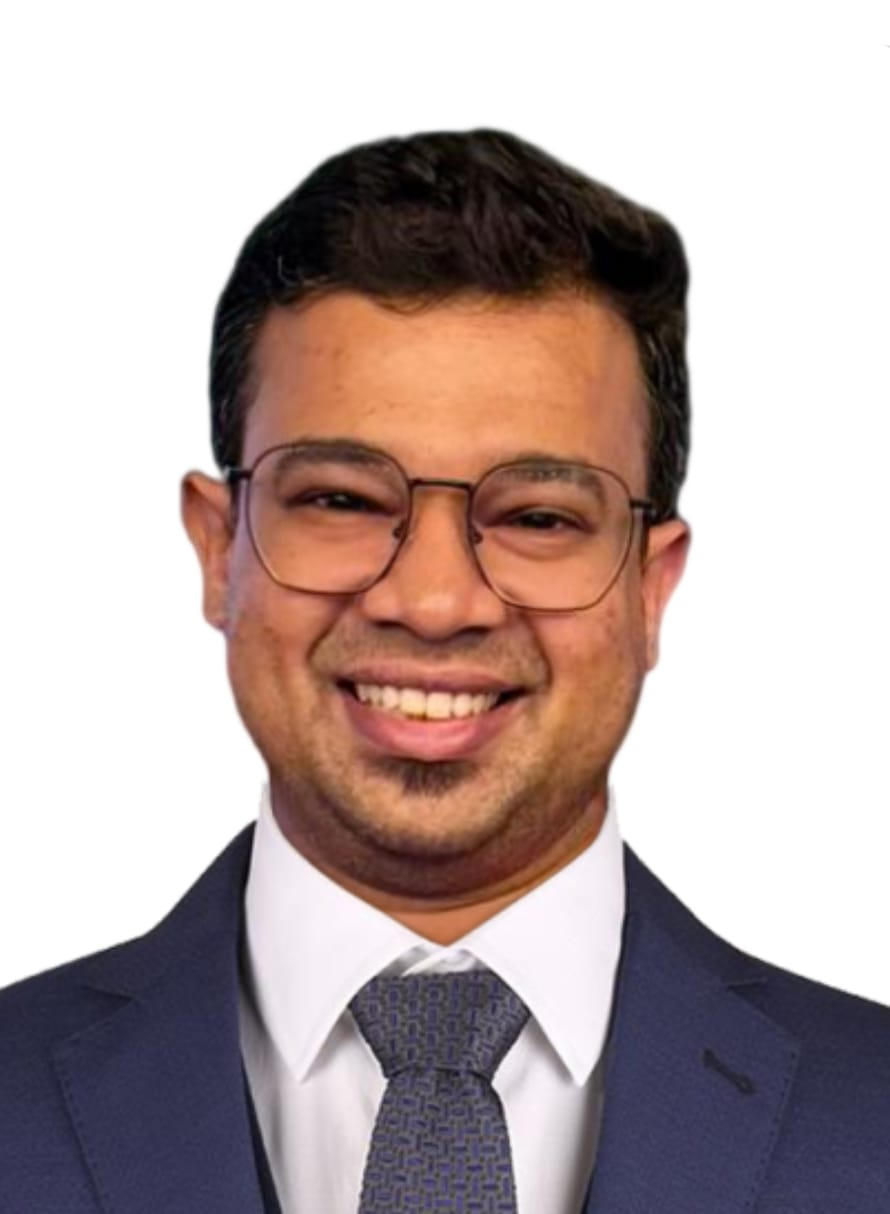
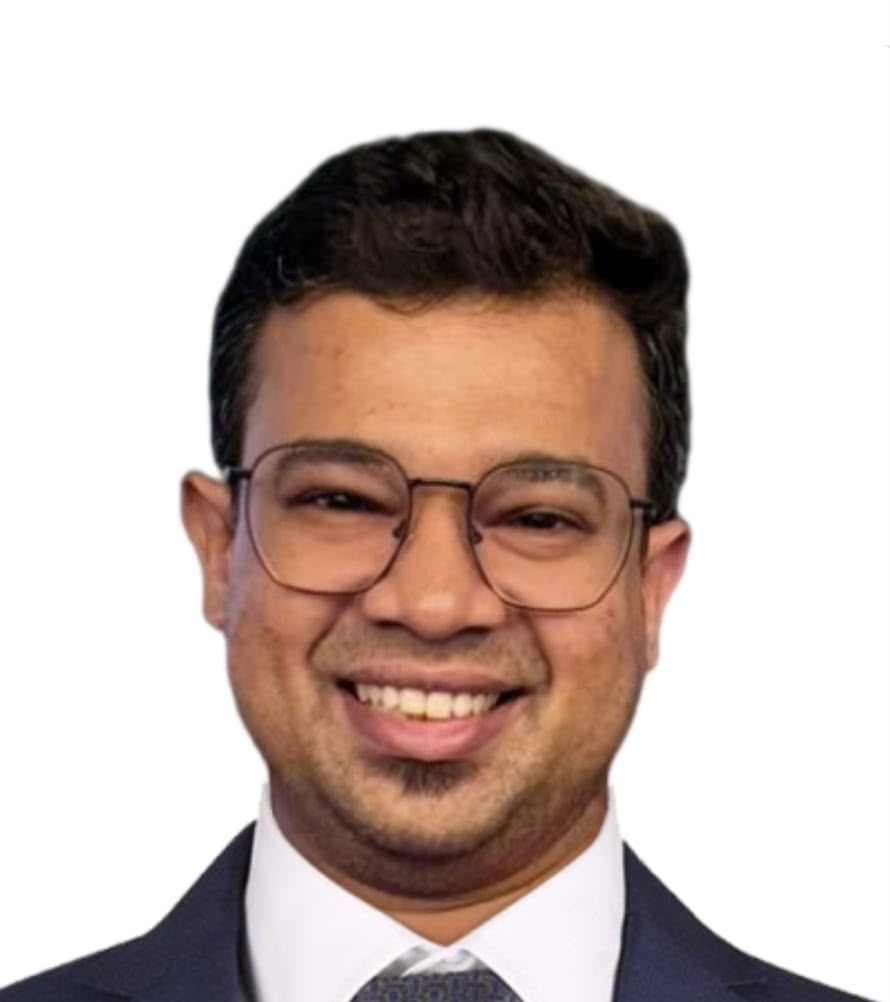
photo

diff --git a/index.html b/index.html
@@ -180,7 +180,7 @@ h2.title{ font-size:clamp(26px,3.4vw,34px); letter-spacing:-.01em; }
 .bracket .c2::before{ top:0; right:0; border-left:none; border-bottom:none; }
 .bracket .c2::after{ bottom:0; left:0; border-right:none; border-top:none; }
 .portrait-img{
-  width:100%; aspect-ratio:1/1; object-fit:cover; border-radius:50%;
+  width:100%; aspect-ratio:1/1; object-fit:cover; border-radius:60%;
   filter:grayscale(.15);
 }
 .portrait-cap{
@@ -370,7 +370,7 @@ footer{ padding:56px 0 70px; }
   </div>
   <div class="portrait-wrap">
     <div class="bracket"><span class="c2"></span>
-      <img class="portrait-img" src="assets/pic_sb_1_circ.png" alt="Portrait of Dr. Soumen Basu">
+      <img class="portrait-img" src="assets/photo.jpg" alt="Portrait of Dr. Soumen Basu">
     </div>
     <!--div class="portrait-cap"><b>PI</b> · Vision &amp; Translational AI, IIT Kharagpur</div-->
   </div>
